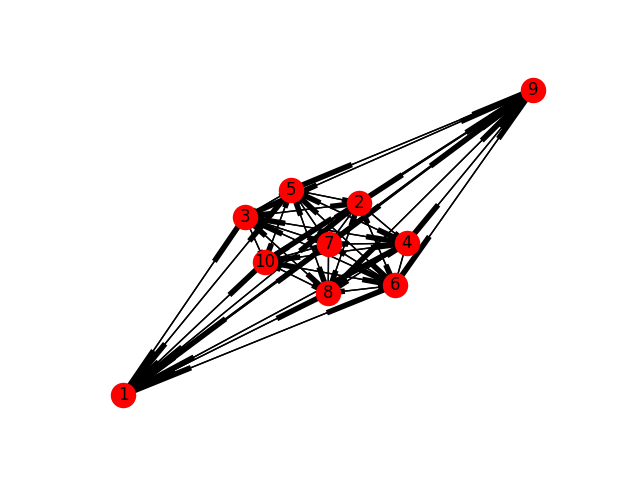
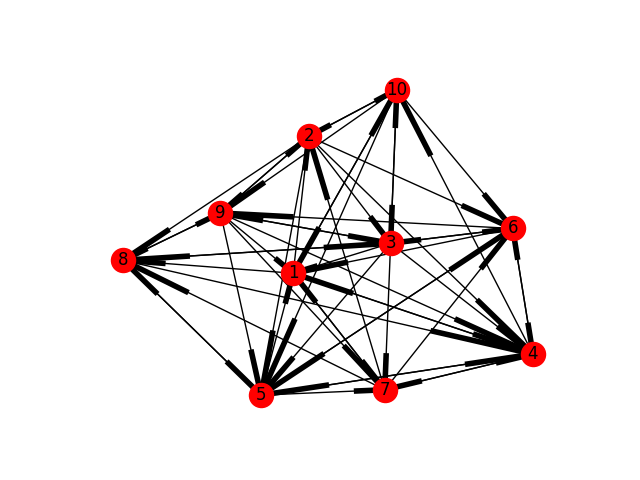
update

Changed region(s): [[0.1562, 0.1562, 0.875, 0.875]]

diff --git a/train_data_generate.py b/train_data_generate.py
@@ -1,8 +1,10 @@
+from __future__ import print_function
 import consensus_algo
-import CheckRobstness
+import CheckRobustness
 import numpy as np
 import pandas as pd
 import time
+
 
 def main():
     ll_r3 = np.array(range(100)).reshape((1, 101))
@@ -29,42 +31,41 @@ def main():
             else:
                 l2.append(adjmatrix.tolist())
 
-
-            y = CheckRobstness.determine_robustness(adjmatrix)
+            y = CheckRobustness.determine_robustness(adjmatrix)
 
             if y[0] == 3 and count_r3 != 0:
                 x = np.column_stack((adjmatrix.reshape((1, adjmatrix.shape[0]**2)), [local_dict[y]]))
                 np.concatenate()
                 count_r3 -= 1
-                print "count_r3 = %d" % count_r3
+                print("count_r3 = %d" % count_r3)
             elif y[0] == 2 and count_r2 != 0:
                 ll_r2.append((x, local_dict[y]))
                 count_r2 -= 1
-                print "count_r2 = %d" % count_r2
+                print("count_r2 = %d" % count_r2)
             elif y[0] == 1 and count_r1 != 0:
                 ll_r1.append((x, local_dict[y]))
                 count_r1 -= 1
-                print "count_r1 = %d" % count_r1
+                print("count_r1 = %d" % count_r1)
             else:
                 continue
 
-            print adjmatrix
-            print y
+            print(adjmatrix)
+            print(y)
 
     except Exception as e:
-        print str(e)
+        print(str(e))
     finally:
         np.save("./data/r_3_train_data", np.array(ll_r3))
         np.save("./data/r_2_train_data", np.array(ll_r2))
         np.save("./data/r_1_train_data", np.array(ll_r1))
 
-        print "epoch %f" % (time.time()-start)
+        print("epoch %f" % (time.time()-start))
 
 
 def test_data():
     a = np.load("./data/train_data.npy")
     dict = {}
-    print a[:, 1]
+    print(a[:, 1])
     for row in range(a.shape[0]):
         if not dict.has_key(a[row, 1]):
             dict[a[row, 1]] = 0
@@ -72,7 +73,7 @@ def test_data():
             dict[a[row, 1]] += 1
 
     for k, v in dict.iteritems():
-        print k, '=>', v
+        print(k, '=>', v)
 
 
 def test_hvstack():
@@ -85,9 +86,30 @@ def test_hvstack():
 
     pd.DataFrame(r_1_ll).to_csv("./data/r_5_train_data.csv")
 
-    print r_1_ll.shape
+    print(r_1_ll.shape)
 
+
+def set_labels():
+    r_1_train_data = pd.read_csv("./data/r_5_train_data.csv", header=0, index_col=0)
+    labels = r_1_train_data.iloc[:, -1]
+    r_1_train_data = r_1_train_data.iloc[:, : -1]
+    df = pd.DataFrame(np.zeros((labels.shape[0], 50)), dtype=np.int)
+
+    for row in range(labels.shape[0]):
+        df.iloc[row][labels[row]-1] = 1
+
+    r_1_train_data.join(df).to_csv("./data/r_5_train_data.csv")
+
+
+def set_r_labels(file_name, local_index):
+    r_train_data = pd.read_csv(file_name, header=0, index_col=0)
+    r_train_data = r_train_data.iloc[:, :-50]
+    labels = pd.DataFrame(np.zeros((r_train_data.shape[0], 5)), dtype=np.int)
+    for row in range(labels.shape[0]):
+        labels.iloc[row][local_index] = 1
+
+    r_train_data.join(labels).to_csv("./data/r_"+str(local_index+1)+"_train_data_new.csv")
 
 
 if __name__ == '__main__':
-    test_hvstack()
+    adjmatrix = consensus_algo.NetworkAlgo.init_network(vertex_num=5)

diff --git a/consensus_algo.py b/consensus_algo.py
@@ -1,6 +1,8 @@
 # -*-coding:utf-8-*-
-
-
+# reference:
+# [1]py2 compatible with py3, http://blog.csdn.net/u012151283/article/details/58049151
+from __future__ import print_function
+from __future__ import division
 import numpy as np
 import networkx as nx
 import matplotlib.pyplot as plt
@@ -139,12 +141,10 @@ class NetworkAlgo(object):
             self.G.node[v]['state'] = str(v)
 
         node_labels = nx.get_node_attributes(self.G, 'state')
-        pos = nx.spring_layout(self.G)
+        pos = nx.circular_layout(self.G)
         nx.draw_networkx_labels(self.G, pos, node_labels=node_labels)
-        # nx.draw_networkx_edges(self.G, pos)
-        # print self.adjMatrix
         nx.draw(self.G, pos)
-        plt.savefig('./assets/result1.png')
+        plt.savefig('./assets/result2.png')
         # plt.show(block=False)
         plt.close()
 
@@ -205,11 +205,11 @@ class ArcpAlgo(NetworkAlgo):
         for it in range(iter_time):
             for v in self.G.nodes():
                 self.arcp(v, f_local, it)
-        print 'ok arcp'
-        print self.adjMatrix
-        print '-'*100
+        print('ok arcp')
+        print(self.adjMatrix)
+        print('-'*100)
         for y in self.G.nodes():
-            print str(y)+':', self.G.node[y]['value']
+            print(str(y)+':', self.G.node[y]['value'])
         # self.show_network()
         # self.show_consensus(f_local, iter_time)
 
@@ -249,7 +249,7 @@ class McaAlgo(NetworkAlgo):
             for v in self.G.nodes():
                 self.median_consensus_algo(v, it)
 
-        print "Ok mac"
+        print("Ok mac")
         self.show_network()
         self.show_consensus(iter_time)
 
@@ -272,12 +272,12 @@ def main():
     # test.set_malicious_node({2: 2.0})
     # # test.run_arcp(2, 100)
     # test.write_to_file(test.adjMatrix)
-    x = np.loadtxt("data.out",dtype=np.int)
-    print x.shape
-    print np.product(x, x.transpose())
-    # test2 = McaAlgo(20)
-    # test2.set_malicious_node({2:3.0})
-    # test2.run_median_consensus_algo(100)
+    # x = np.loadtxt("data.out",dtype=np.int)
+    # print x.shape
+    # print np.product(x, x.transpose())
+    test2 = McaAlgo(20)
+    test2.set_malicious_node({2:3.0})
+    test2.run_median_consensus_algo(100)
 
 if __name__ == '__main__':
     main()

diff --git a/CheckRobustness.py b/CheckRobustness.py
@@ -19,7 +19,7 @@
 # if remove node6, (2, 2)-robust
 # if remove node7, (2, 3)-robust
 # if remove node8, (2, 1)-robust
-
+from __future__ import print_function
 import numpy as np
 import itertools
 import math
@@ -163,11 +163,18 @@ def determine_partial_robust(A, i):
 
 if __name__ == '__main__':
     import consensus_algo
-    mm = consensus_algo.NetworkAlgo(network_file='./data/data3.in')
 
-    # mm.show_network()
+    # while 1:
+    #     mm = consensus_algo.NetworkAlgo(network_file='./data/data.in')
+    #     x1, x2 = determine_robustness(mm.adjMatrix)
+    #     if x1 == 2 and x2 == 2:
+    #         mm.show_network()
+    #         print(mm.adjMatrix)
+    #         break
+    mm = consensus_algo.NetworkAlgo(vertex_num=7)
+    print(determine_robustness(mm.adjMatrix))
+    mm.show_network()
 
-    print determine_robustness(mm.adjMatrix)
     #
     # with open('data/data3.in', 'r') as f:
     #     A = []
